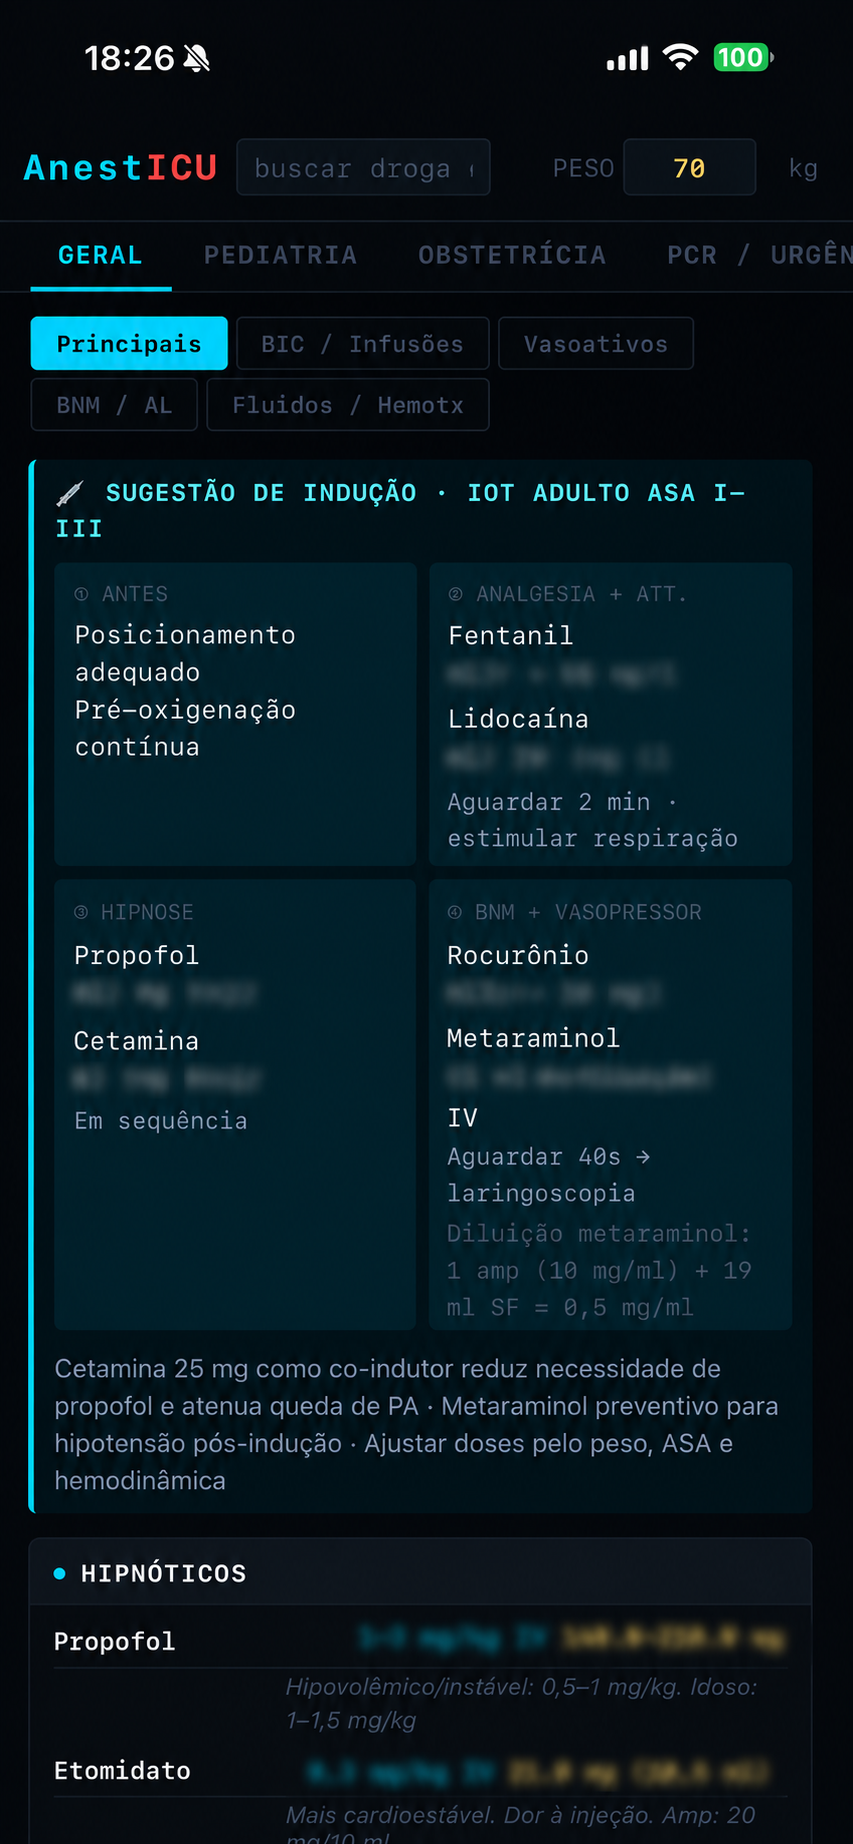
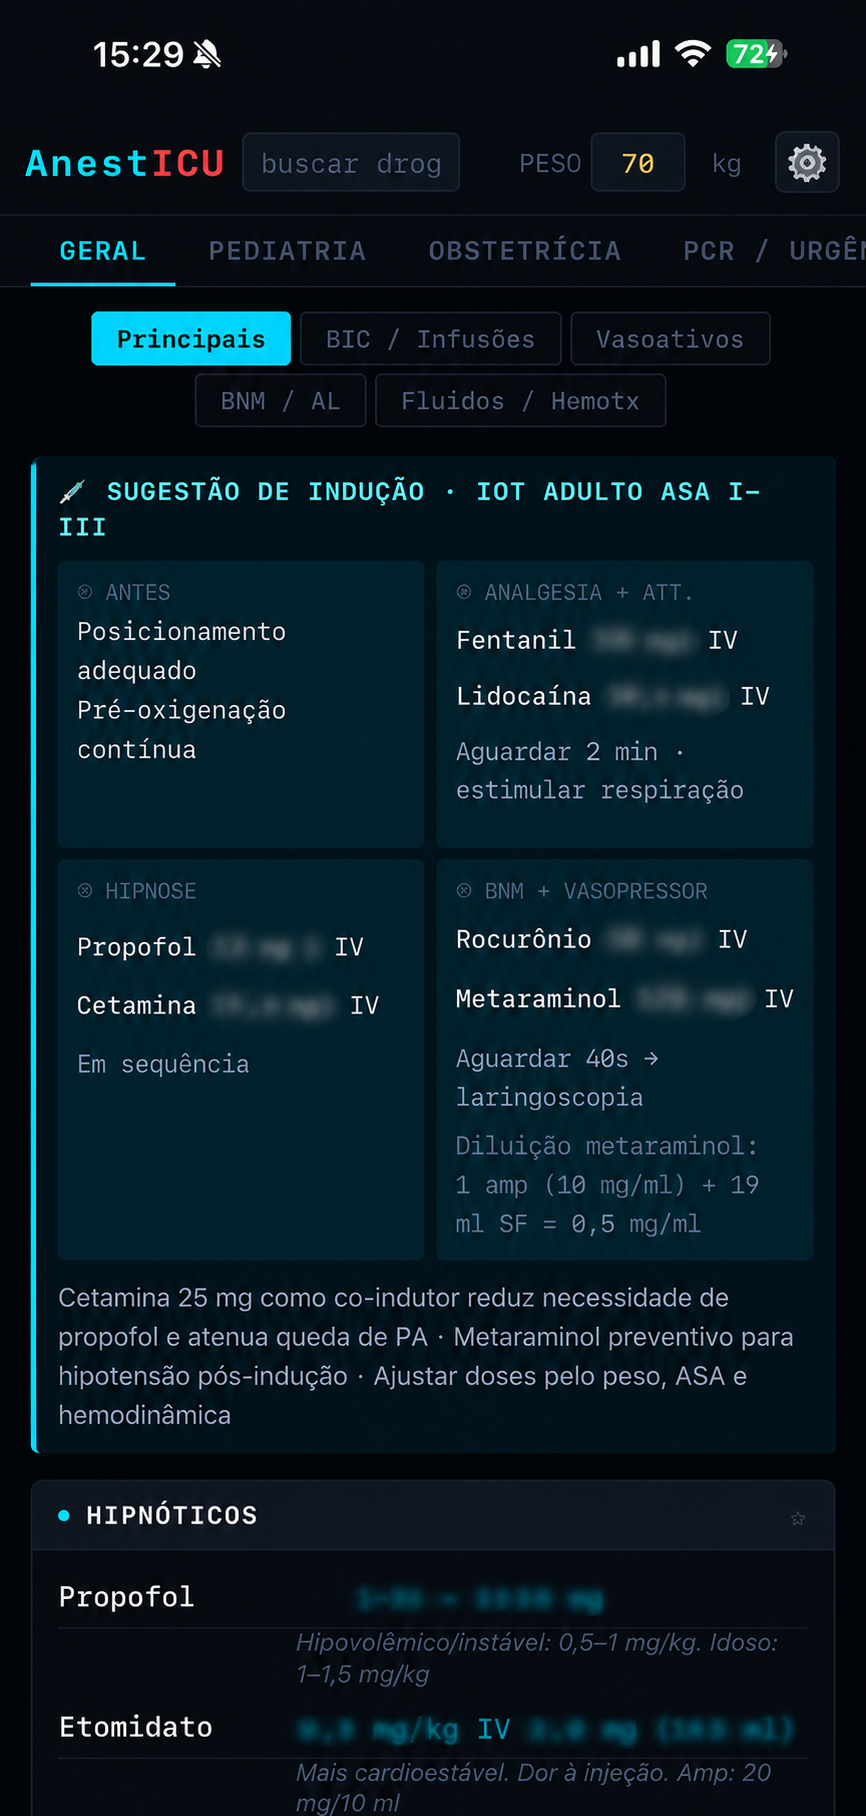
salvar novas imagens

diff --git a/index.html b/index.html
@@ -321,6 +321,11 @@
       </figure>
 
       <figure class="screen-card reveal">
+        <img src="assets/screenshots/IMG_6895.jpg" alt="Ajustes">
+        <figcaption>Novo menu de ajustes:<br> Personalize idioma, tema e layout</figcaption>
+      </figure>
+
+      <figure class="screen-card reveal">
         <img src="assets/screenshots/bic.PNG" alt="Infusões">
         <figcaption>Infusões contínuas (BIC)</figcaption>
       </figure>